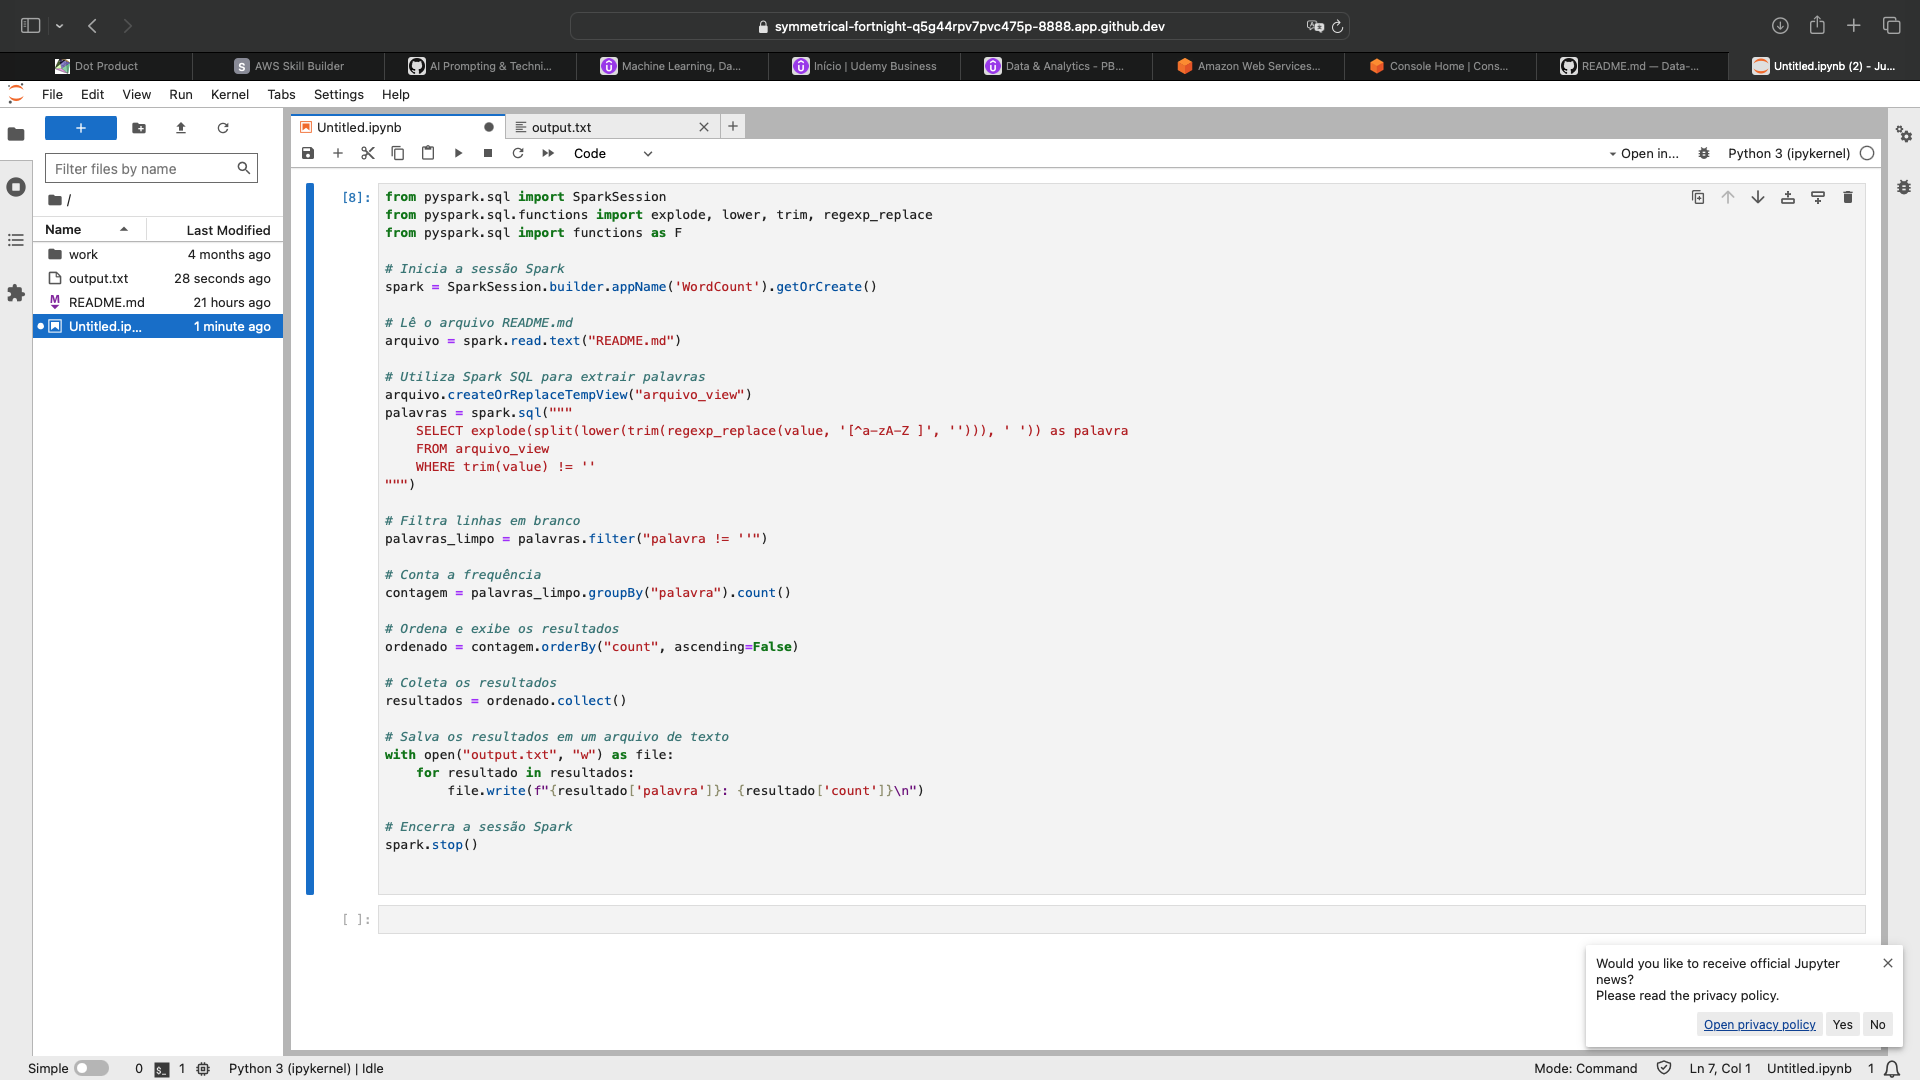
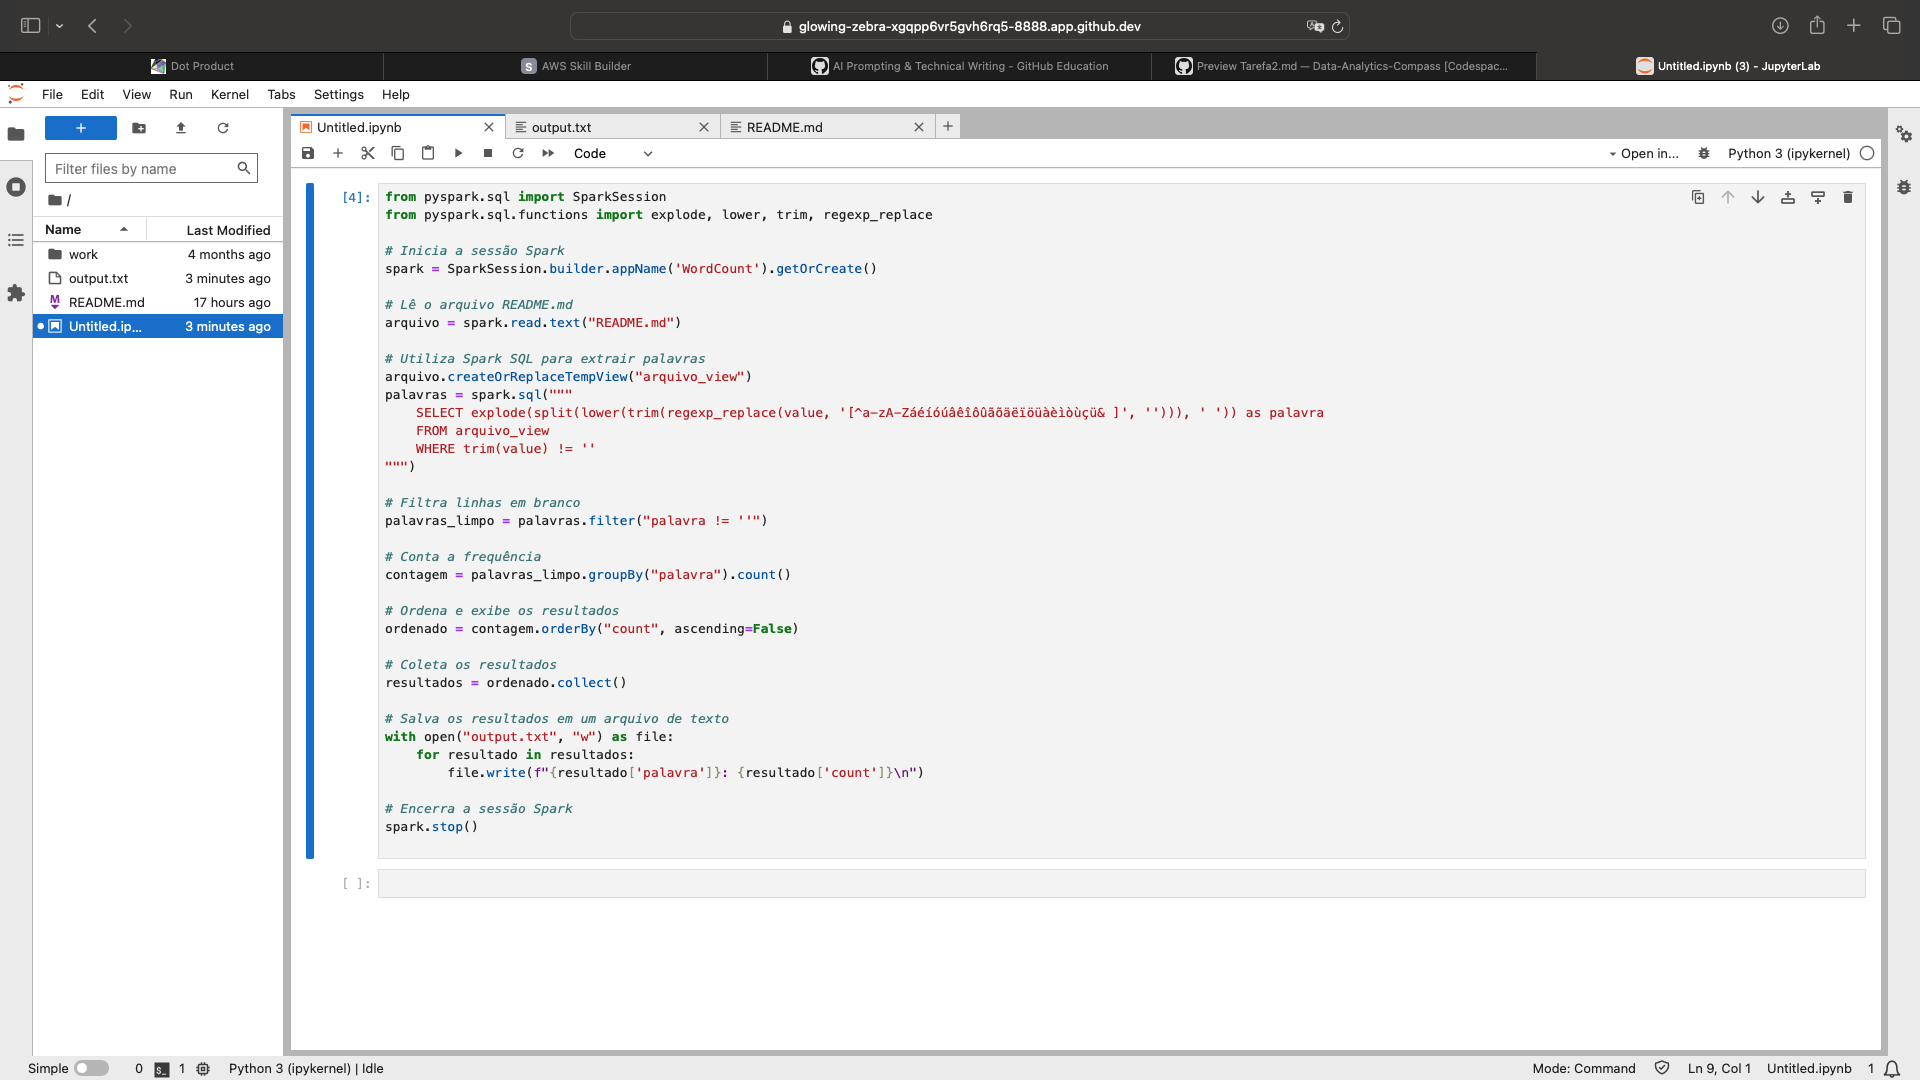
ajustes tarefa 2 sprint 7

diff --git a/Sprint 7/evidencias/WordCount.py b/Sprint 7/evidencias/WordCount.py
@@ -1,6 +1,5 @@
 from pyspark.sql import SparkSession
 from pyspark.sql.functions import explode, lower, trim, regexp_replace
-from pyspark.sql import functions as F
 
 # Inicia a sessão Spark
 spark = SparkSession.builder.appName('WordCount').getOrCreate()
@@ -11,7 +10,7 @@ arquivo = spark.read.text("README.md")
 # Utiliza Spark SQL para extrair palavras
 arquivo.createOrReplaceTempView("arquivo_view")
 palavras = spark.sql("""
-    SELECT explode(split(lower(trim(regexp_replace(value, '[^a-zA-Z ]', ''))), ' ')) as palavra
+    SELECT explode(split(lower(trim(regexp_replace(value, '[^a-zA-Záéíóúâêîôûãõäëïöüàèìòùçü& ]', ''))), ' ')) as palavra
     FROM arquivo_view
     WHERE trim(value) != ''
 """)

diff --git a/Sprint 7/evidencias/Tarefa2.md b/Sprint 7/evidencias/Tarefa2.md
@@ -38,7 +38,6 @@ $ docker cp README.md 9a1c9f8e76b5:/home/jovyan
 ```python
 from pyspark.sql import SparkSession
 from pyspark.sql.functions import explode, lower, trim, regexp_replace
-from pyspark.sql import functions as F
 
 # Inicia a sessão Spark
 spark = SparkSession.builder.appName('WordCount').getOrCreate()
@@ -49,7 +48,7 @@ arquivo = spark.read.text("README.md")
 # Utiliza Spark SQL para extrair palavras
 arquivo.createOrReplaceTempView("arquivo_view")
 palavras = spark.sql("""
-    SELECT explode(split(lower(trim(regexp_replace(value, '[^a-zA-Z ]', ''))), ' ')) as palavra
+    SELECT explode(split(lower(trim(regexp_replace(value, '[^a-zA-Záéíóúâêîôûãõäëïöüàèìòùçü& ]', ''))), ' ')) as palavra
     FROM arquivo_view
     WHERE trim(value) != ''
 """)
